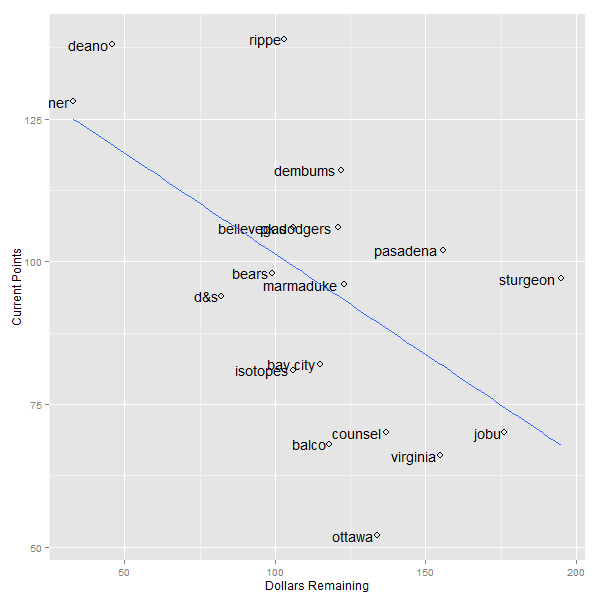
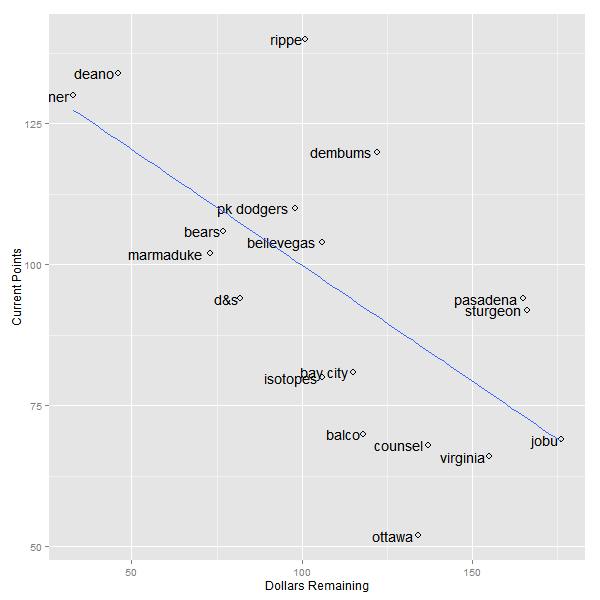
more picks

diff --git a/fantasy2015.md b/fantasy2015.md
@@ -2,22 +2,22 @@ Current Stats
 =============
 
     ##              R  HR RBI  SB   AVG  ERA WHIP    K SV  W spent left
-    ## rippe      622 141 526 110 0.283 3.25 1.17  311 60 18   157  103
+    ## rippe      676 150 576 124 0.280 3.25 1.17  311 60 18   159  101
     ## deano      551 162 575  46 0.276 3.33 1.18  648 34 42   214   46
     ## deener     443 100 432  89 0.268 3.06 1.12  589 35 39   227   33
     ## dembums    466 135 463  66 0.279 3.53 1.17  715  0 48   138  122
-    ## pk dodgers 331  69 291  94 0.264 3.37 1.18  892 30 61   139  121
+    ## pk dodgers 373  81 333  97 0.260 3.38 1.17 1023 30 72   162   98
+    ## bears      418 126 418  55 0.255 3.65 1.22  885 33 59   183   77
     ## bellevegas 405 131 435  53 0.260 3.71 1.23  810 33 59   154  106
-    ## pasadena   497 154 521  81 0.254 3.66 1.24  597  0 42   104  156
-    ## bears      339 106 348  51 0.251 3.65 1.22  885 33 59   161   99
-    ## sturgeon   355  87 358  55 0.258 3.15 1.15  344 41 20    65  195
-    ## marmaduke  551 156 535  99 0.257 3.81 1.25  321 30 22   137  123
+    ## marmaduke  714 192 674 114 0.260 3.81 1.25  321 30 22   187   73
     ## d&s        225  52 209  28 0.267 3.32 1.17 1133  9 79   178   82
+    ## pasadena   422 133 443  74 0.253 3.66 1.24  597  0 42    95  165
+    ## sturgeon   355  87 358  55 0.258 3.15 1.15  345 41 20    94  166
     ## bay city   339  97 362  38 0.261 3.72 1.24  730 25 50   145  115
     ## isotopes   292  86 295  41 0.271 3.78 1.27  642 31 48   154  106
+    ## balco      495 118 480  69 0.265 4.19 1.32  155  0 12   142  118
     ## jobu       213  28 163  40 0.265 4.14 1.30  866 34 64    84  176
     ## counsel    365  83 326  65 0.268 3.95 1.27  556  0 38   123  137
-    ## balco      495 118 480  69 0.265 4.19 1.32  155  0 12   142  118
     ## virginia   130  25 114  16 0.273 3.38 1.18  484 31 32   105  155
     ## ottawa     280  71 270  73 0.262 3.99 1.26  428  0 31   126  134
 
@@ -25,47 +25,47 @@ Hitting Points
 ==============
 
     ##            R_pts HR_pts RBI_pts SB_pts AVG_pts total_points
-    ## rippe       18.0     15      16     18    18.0          139
-    ## deano       16.5     18      18      6    16.0          138
-    ## deener      12.0     10      11     15    12.5          128
-    ## dembums     13.0     14      13     11    17.0          116
-    ## pk dodgers   6.0      4       5     16     8.0          106
-    ## bellevegas  11.0     13      12      8     5.0          106
-    ## pasadena    15.0     16      15     14     2.0          102
-    ## bears        7.5     11       8      7     1.0           98
-    ## sturgeon     9.0      8       9      9     4.0           97
-    ## marmaduke   16.5     17      17     17     3.0           96
-    ## d&s          3.0      3       3      2    11.0           94
-    ## bay city     7.5      9      10      3     6.0           82
-    ## isotopes     5.0      7       6      5    14.0           81
-    ## jobu         2.0      2       2      4     9.5           70
-    ## counsel     10.0      6       7     10    12.5           70
-    ## balco       14.0     12      14     12     9.5           68
-    ## virginia     1.0      1       1      1    15.0           66
-    ## ottawa       4.0      5       4     13     7.0           52
+    ## rippe         17     16      17   18.0    18.0          140
+    ## deano         16     17      16    6.0    16.0          134
+    ## deener        13     10      11   15.0    12.5          130
+    ## dembums       14     15      14   11.0    17.0          120
+    ## pk dodgers     9      5       7   16.0     5.0          110
+    ## bears         11     12      10    8.5     2.0          106
+    ## bellevegas    10     13      12    7.0     5.0          104
+    ## marmaduke     18     18      18   17.0     5.0          102
+    ## d&s            3      3       3    2.0    11.0           94
+    ## pasadena      12     14      13   14.0     1.0           94
+    ## sturgeon       7      8       8    8.5     3.0           92
+    ## bay city       6      9       9    3.0     7.0           81
+    ## isotopes       5      7       5    5.0    14.0           80
+    ## balco         15     11      15   12.0     9.5           70
+    ## jobu           2      2       2    4.0     9.5           69
+    ## counsel        8      6       6   10.0    12.5           68
+    ## virginia       1      1       1    1.0    15.0           66
+    ## ottawa         4      4       4   13.0     8.0           52
 
 Pitching Points
 ===============
 
     ##            ERA_pts WHIP_pts K_pts SV_pts W_pts total_points
-    ## rippe           16       16     2   18.0   2.0          139
-    ## deano           14       14    11   14.5   9.5          138
-    ## deener          18       18     8   16.0   8.0          128
-    ## dembums         11       11    12    3.0  11.5          116
-    ## pk dodgers      13       13    17    8.5  16.0          106
-    ## bellevegas       8        8    14   12.5  14.5          106
-    ## pasadena         9        9     9    3.0   9.5          102
-    ## bears           10       10    16   12.5  14.5           98
-    ## sturgeon        17       17     4   17.0   3.0           97
-    ## marmaduke        5        5     3    8.5   4.0           96
-    ## d&s             15       15    18    6.0  18.0           94
-    ## bay city         7        7    13    7.0  13.0           82
-    ## isotopes         6        6    10   10.5  11.5           81
-    ## jobu             2        2    15   14.5  17.0           70
-    ## counsel          4        4     7    3.0   7.0           70
-    ## balco            1        1     1    3.0   1.0           68
-    ## virginia        12       12     6   10.5   6.0           66
-    ## ottawa           3        3     5    3.0   5.0           52
+    ## rippe         16.0     16.0     2   18.0   2.0          140
+    ## deano         14.0     14.0    11   14.5   9.5          134
+    ## deener        18.0     18.0     8   16.0   8.0          130
+    ## dembums       11.0     11.0    12    3.0  11.5          120
+    ## pk dodgers    12.5     12.5    17    8.5  17.0          110
+    ## bears         10.0     10.0    16   12.5  14.5          106
+    ## bellevegas     8.0      8.0    14   12.5  14.5          104
+    ## marmaduke      5.0      5.0     3    8.5   4.0          102
+    ## d&s           15.0     15.0    18    6.0  18.0           94
+    ## pasadena       9.0      9.0     9    3.0   9.5           94
+    ## sturgeon      17.0     17.0     4   17.0   3.0           92
+    ## bay city       7.0      7.0    13    7.0  13.0           81
+    ## isotopes       6.0      6.0    10   10.5  11.5           80
+    ## balco          1.0      1.0     1    3.0   1.0           70
+    ## jobu           2.0      2.0    15   14.5  16.0           69
+    ## counsel        4.0      4.0     7    3.0   7.0           68
+    ## virginia      12.5     12.5     6   10.5   6.0           66
+    ## ottawa         3.0      3.0     5    3.0   5.0           52
 
 Scatter of Remaining Dollars vs. Current Points
 ===============================================
